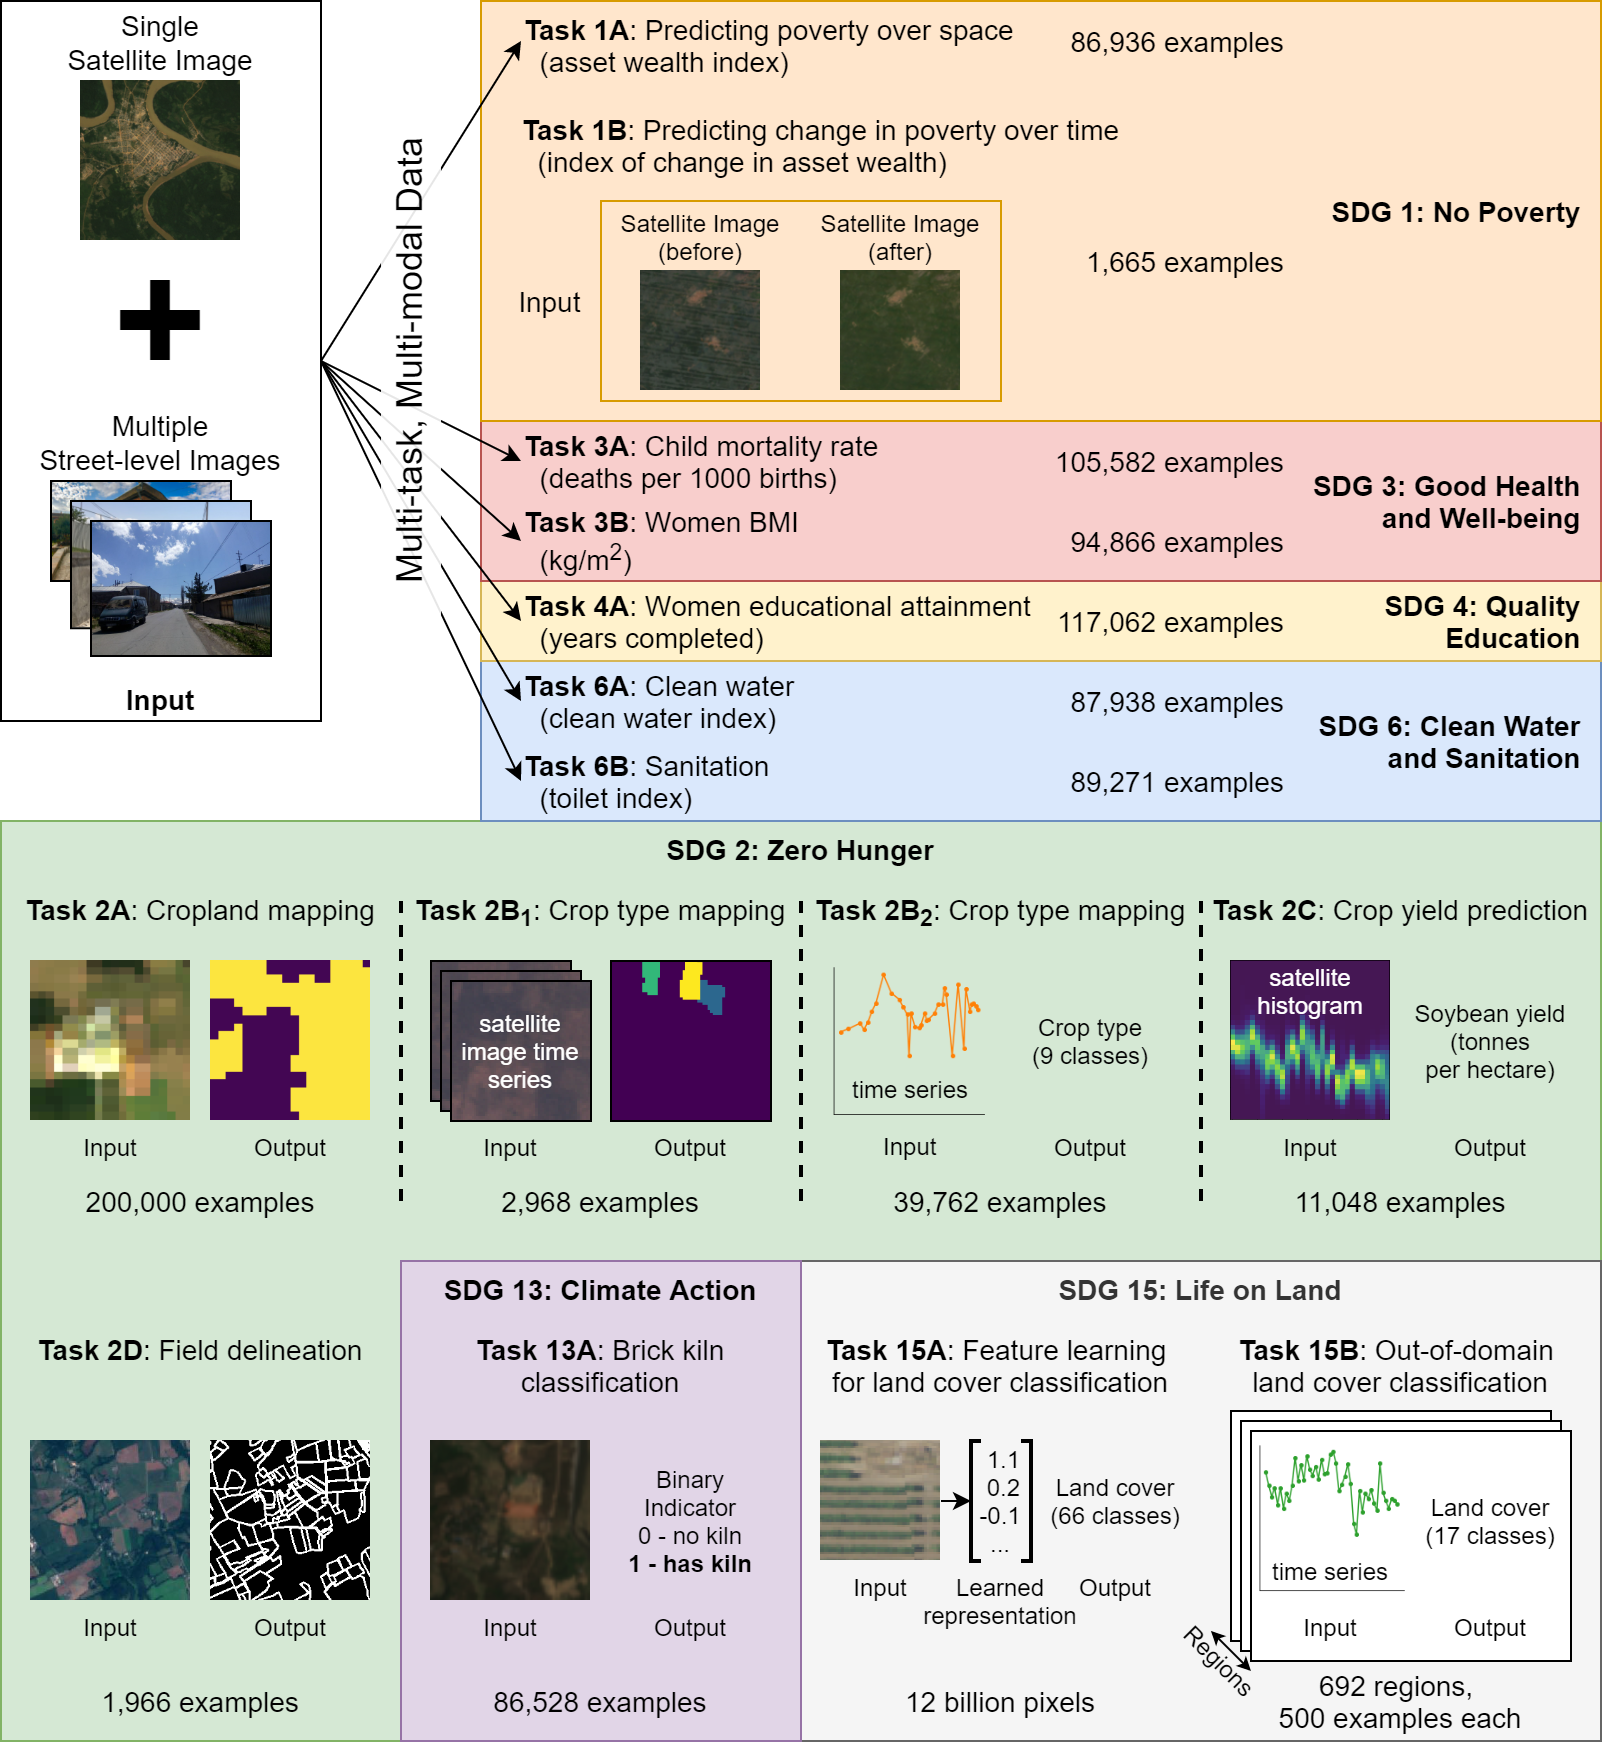
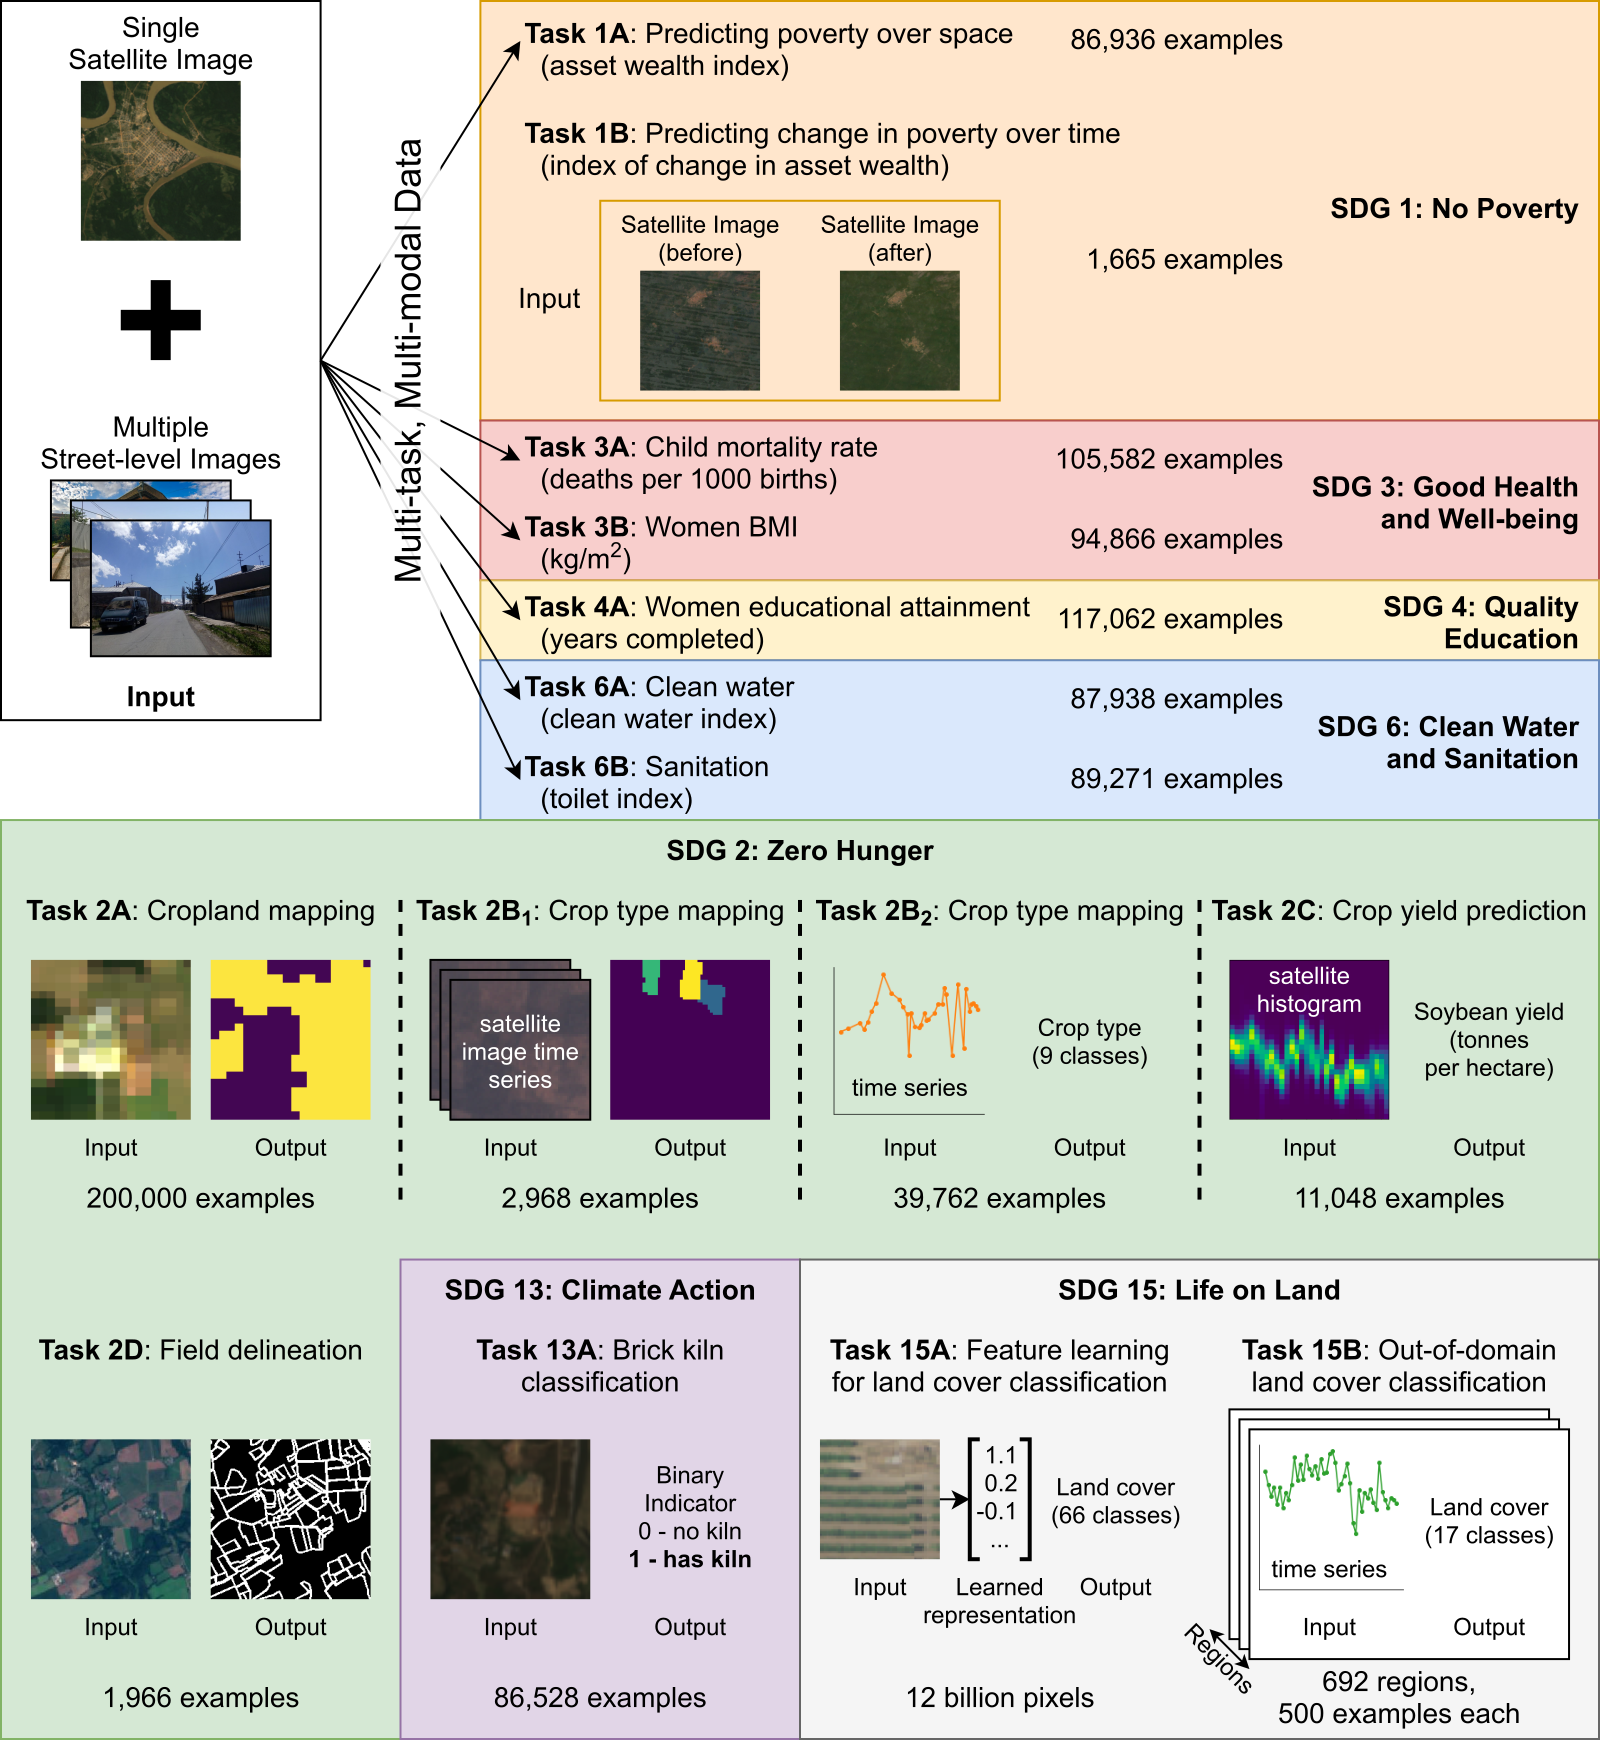
- Add link to DHS raw values recoding in DHS dataset info - Cosmetic updates to fig1

diff --git a/docs/datasets/dhs.md b/docs/datasets/dhs.md
@@ -30,6 +30,8 @@ The labels for each of the 6 tasks are as follows:
   - **water quality index**: For each household, water quality is ranked on a 1-5 scale, where 5 is the "highest quality". The water quality index is the cluster-level average score.
   - **sanitation index**: For each household, toilet quality is ranked on a 1-5 scale, where 5 is the "highest quality". The sanitation index is the cluster-level average score.
 
+Water quality and toilet quality are converted to the 1-5 scale from the raw DHS survey values using the recoding tables linked [here](https://github.com/sustainlab-group/sustainbench/tree/main/dataset_preprocessing/dhs_lsms/dhs_data/recode).
+
 |                              | # countries | # observations       | # clusters (= labels) |
 |:-----------------------------|------------:|---------------------:|------------:|
 | asset wealth index           |          48 | 2,079,036 households |      86,936 |
@@ -42,7 +44,7 @@ The labels for each of the 6 tasks are as follows:
 SustainBench provides both satellite and street-level imagery as model inputs.
 
 - **satellite imagery**: The satellite imagery consists of both daytime images from the Landsat 5/7/8 satellites and nightlights images from the DMSP and VIIRS satellites. While the daytime image bands have a native 30m/pixel resolution, the nightlights images have a lower native resolution and are upsampled using the nearest-neighbors algorithm to match the daytime image resolution. For clusters from surveys taken in 2011 or earlier, the nightlights image comes from DMSP; for clusters from surveys taken in 2012 or later, the nightlights image comes from VIIRS. Because DMSP and VIIRS imagery are not directly comparable, we recommend users to treat DMSP and VIIRS imagery separately in their models.
-- **street-level imagery**: Mapillary images that fall within 0.1 degrees latitude and longitude of a DHS cluster and were captured within 3 years before or after a DHS cluster datapoint were retrieved and matched to their respective cluster. There are a maximum of 300 images per cluster. The shortest side of all images is 1024 pixels. We also provide metadata for each image, including its unique Mapillary ID, latitude, longitude, and timestamp of capture in miliseconds. Mapillary processes images with [privacy blurring](https://blog.mapillary.com/update/2018/04/19/accurate-privacy-blurring-at-scale.html), blurring faces and license plates.
+- **street-level imagery**: Mapillary images that fall within 0.1 degrees latitude and longitude of a DHS cluster and were captured within 3 years before or after a DHS cluster datapoint were retrieved and matched to their respective cluster. The shortest side of all images is 1024 pixels. We also provide metadata for each image, including its unique Mapillary ID, latitude, longitude, and timestamp of capture in miliseconds. Mapillary processes images with [privacy blurring](https://blog.mapillary.com/update/2018/04/19/accurate-privacy-blurring-at-scale.html), blurring faces and license plates. We obtained Mapillary images for 22,052 DHS clusters (18.7%) spanning 48 countries. Of these clusters with Mapillary images, the number of images per cluster ranges from 1 to a maximum of 300, with a mean of 76.3 and median of 94.0. A total of 1,682,613 Mapillary images are included.
 
 <figure style="text-align: center">
     <img src="{{ site.baseurl }}/assets/images/landsat.png" width="200" height="200" title="Landsat satellite image">
@@ -72,7 +74,9 @@ We evaluate model performance using the squared Pearson correlation coefficient 
 
 The input is multi-modal, consisting of a single 255x255x8px satellite image as well as a set of between 0 and 300 street-level RGB images whose shortest length is 1024px. The first 7 bands of the satellite image are surface reflectance values from the Landsat 5/7/8 satellites and have the following order: blue, green, red, shortwave infrared 1, shortwave infrared 2, thermal, and near infrared. The last band in the satellite image is the nightlights band, from either the DMSP or VIIRS satellite.
 
-Metadata provided includes the (lat, lon) geocoordinates and country of the cluster, year of the survey, and number of observations within the cluster.
+We provide metadata associated with the labels, including the (lat, lon) geocoordinates and country of the cluster, year of the survey, a binary urban/rural indicator, and number of observations within the cluster. Note that the geocoordinates may not be exact, as they may have been "jittered" randomly up to 2km for urban clusters and 10km for rural clusters to protect survey participant privacy.
+
+We also provide metadata associated with each street-level image, including a unique ID, timestamp of capture in milliseconds, year of capture, latitude, and longitude.
 
 
 ### Output
